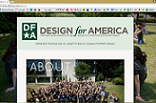
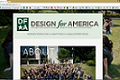
side videos

diff --git a/portfolio/xa.html b/portfolio/xa.html
@@ -26,13 +26,15 @@
 	</div>
 		</div>
 	<p class="navigation" id="nav"><a id="nav" href="http://hoffm429.github.io/lakay/portfolio/">Home</a></p>
-	<div id="linkspart">
+	
+	
+	<div id="linkspartxa">
 		
 		<div class="link">
-		<a href="https://vimeo.com/107484104"><img src="dfavideo.png"</a>
+		<a href="https://www.youtube.com/watch?v=Yf054Lt3x0A"><img src="spartanvideo.png"></a>
 		</div>
 		
-		<div class="links">
+		<div class="linksxa">
 		<a href="http://www.dfamsu.com/"><img src="dfawebsite.png"></a>
 		</div>
 		

diff --git a/portfolio/style2.css b/portfolio/style2.css
@@ -69,16 +69,19 @@ a:hover {
 
 #linkspart {
 	padding-top: 25.5cm;
-	padding-left: 4cm;
+
 }
 
 #linkspartxa {
-	padding-top: 10cm;
-	padding-left: 4 cm;
+	padding-top: 40cm;
+
 	}
 .links {
 padding-top: 13.3cm;
 }
+
+.linksxa {
+padding-top: 19.3cm;}
 
 #photoshop {
 	padding-top: 12cm;
